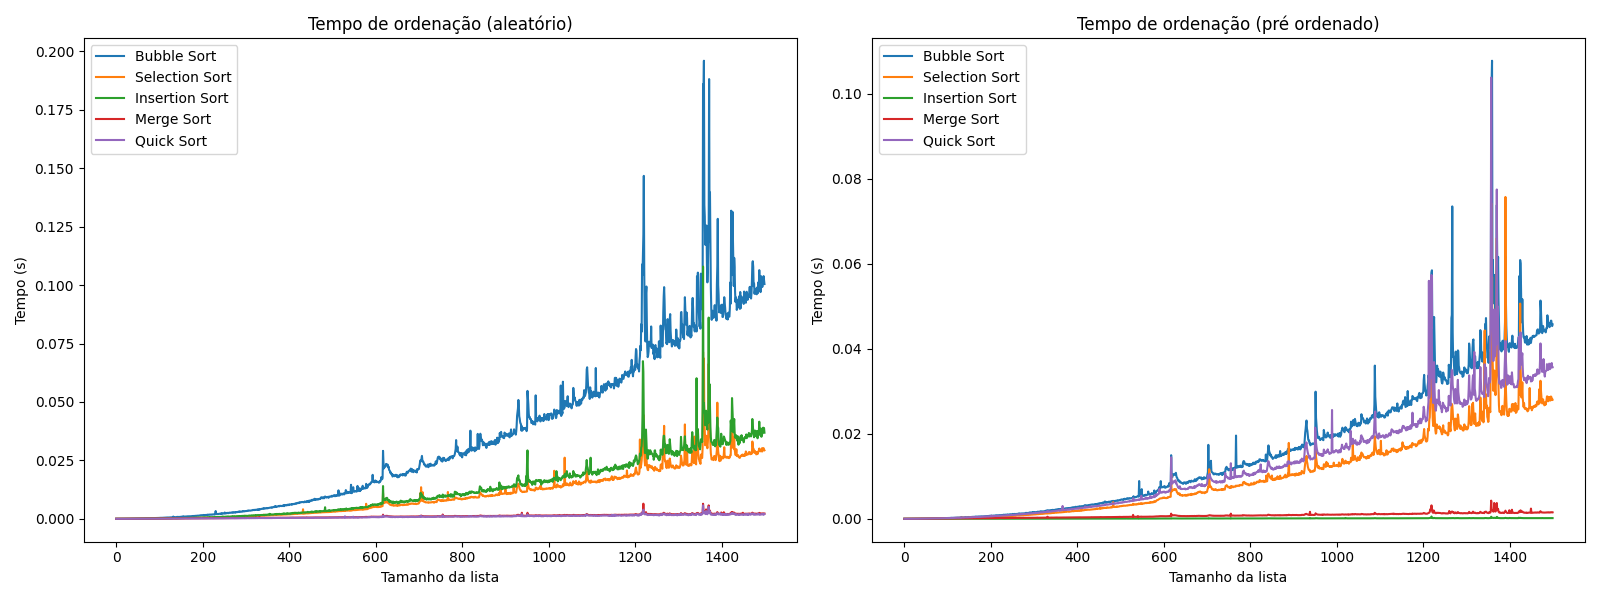
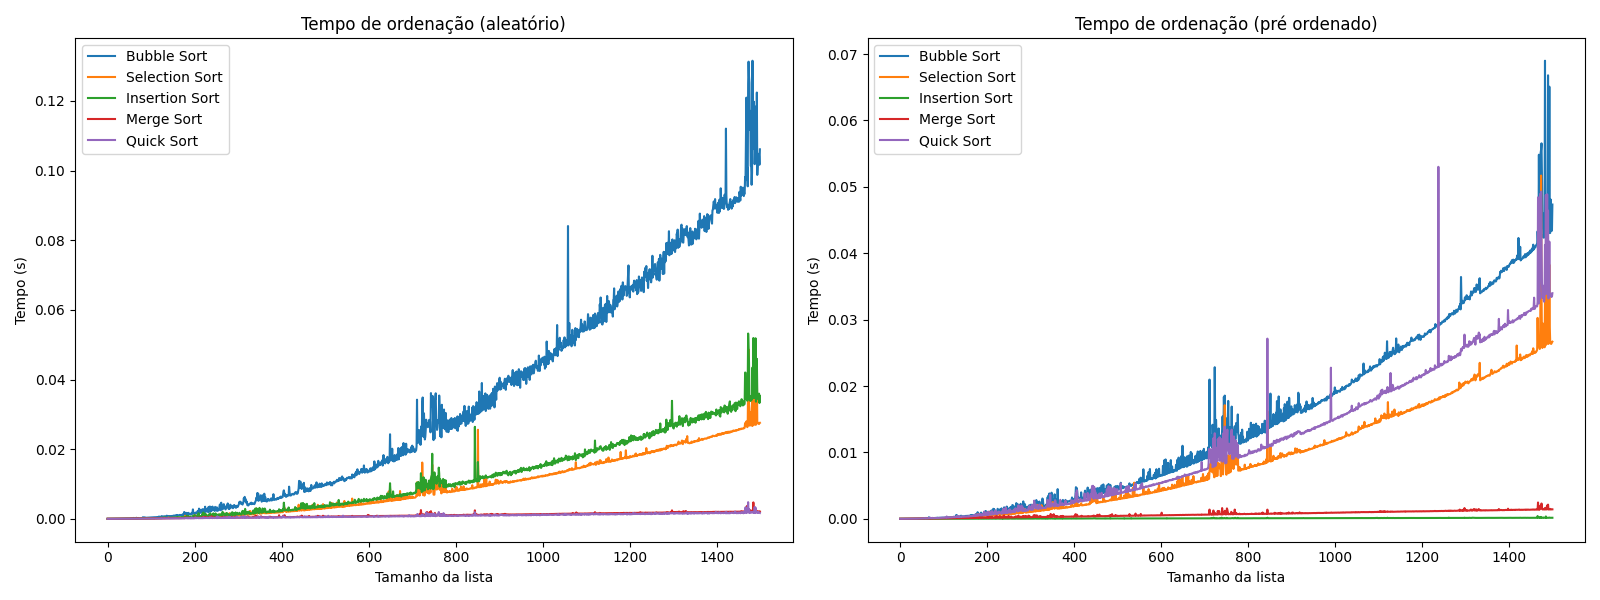
Arquivos

diff --git a/11-09/merge.py b/11-09/merge.py
@@ -1,0 +1,43 @@
+import random
+
+
+def merge(l1, l2):
+    """
+        Dados l1 e l2 ordenados, junta em uma com os dois, também ordenada
+    """
+
+    resultado = []
+    i = 0
+    j = 0
+
+    while i < len(l1) and j < len(l2):
+        if l1[i] < l2[j]:
+            resultado.append(l1[i])
+            i += 1
+        else:
+            resultado.append(l2[j])
+            j += 1
+
+    resultado += l1[i:]
+    resultado += l2[j:]
+
+    return resultado
+
+
+def merge_sort(l, inicio, fim):
+    if fim - inicio <= 1:
+        return
+
+    metade = (inicio + fim) // 2
+
+    merge_sort(l, inicio, metade)
+    merge_sort(l, metade, fim)
+
+    l1 = l[inicio:metade]
+    l2 = l[metade:fim]
+    l[inicio:fim] = merge(l1, l2)
+
+
+l = random.sample(range(10), 8)
+merge_sort(l, 0, 8)
+print(l)

diff --git a/11-09/quicksort.py b/11-09/quicksort.py
@@ -1,0 +1,33 @@
+import random
+
+
+def trocar_elementos(l, i, j):
+    aux = l[i]
+    l[i] = l[j]
+    l[j] = aux
+
+
+def partition(lista, inicio, fim):
+    j = inicio
+
+    for i in range(inicio + 1, fim):
+        if lista[i] <= lista[inicio]:
+            j += 1
+            trocar_elementos(lista, i, j)
+    trocar_elementos(lista, inicio, j)
+    return j
+
+
+def quick_sort(lista, inicio, fim):
+    if fim - inicio <= 1:
+        return
+
+    pivo = partition(lista, inicio, fim)
+    quick_sort(lista, inicio, pivo)
+    quick_sort(lista, pivo + 1, fim)
+
+
+l = random.sample(range(10), 8)
+print(l)
+quick_sort(l, 0, 8)
+print(l)

diff --git a/11-11/bolsa.py b/11-11/bolsa.py
@@ -1,0 +1,19 @@
+import csv
+import json
+import matplotlib.pyplot as plt
+
+
+with open("arquivos/bolsa.json") as f:
+    configs = json.load(f)
+
+for arquivo in configs["arquivos"]:
+    with open(f"arquivos/{arquivo['arquivo']}") as f:
+        dados = list(csv.DictReader(f))
+
+        xs = [float(dado["x"]) for dado in dados]
+        ys = [float(dado["y"]) for dado in dados]
+
+        plt.plot(xs, ys, label=arquivo["nome"])
+
+plt.legend()
+plt.savefig("11-11/bolsa.png")

diff --git a/11-11/3d.py b/11-11/3d.py
@@ -1,0 +1,14 @@
+import csv
+import matplotlib.pyplot as plt
+
+with open("arquivos/elevacao.csv", "r") as f:
+    leitor = csv.DictReader(f)
+    dados = list(leitor)
+
+    xs = [float(dado["x"]) for dado in dados]
+    ys = [float(dado["y"]) for dado in dados]
+    zs = [float(dado["altura"]) for dado in dados]
+
+    fig, ax = plt.subplots(subplot_kw={"projection": "3d"})
+    ax.plot_trisurf(xs, ys, zs)
+    plt.savefig("11-11/elevacao.png")

diff --git a/11-11/scatterplot.py b/11-11/scatterplot.py
@@ -1,0 +1,12 @@
+import csv
+import matplotlib.pyplot as plt
+
+with open("arquivos/coordenadas.csv", "r") as f:
+    leitor = csv.DictReader(f)
+    dados = list(leitor)
+
+    xs = [float(dado["x"]) for dado in dados]
+    ys = [float(dado["y"]) for dado in dados]
+
+    plt.scatter(xs, ys)
+    plt.savefig("11-11/scatter.png")

diff --git a/11-11/lendo_csv.py b/11-11/lendo_csv.py
@@ -1,0 +1,9 @@
+import csv
+
+
+with open("11-11/exemplo.csv") as f:
+    leitor = csv.reader(f)
+    dados = list(leitor)
+
+    for linha in dados:
+        print(linha)

diff --git a/11-11/lendo_json.py b/11-11/lendo_json.py
@@ -1,0 +1,6 @@
+import json
+
+
+with open("arquivos/exemplo.json") as f:
+    dados = json.load(f)
+    print(dados)

diff --git a/11-11/escrita.py b/11-11/escrita.py
@@ -1,0 +1,2 @@
+with open("11-11/novo_texto.txt", "w") as f:
+    f.write("Oi eu sou um novo texto >:(")

diff --git a/11-11/leitura.py b/11-11/leitura.py
@@ -1,0 +1,3 @@
+f = open("11-11/texto.txt") # File
+print(f.read())
+f.close()

diff --git a/11-11/with.py b/11-11/with.py
@@ -1,0 +1,2 @@
+with open("11-11/texto.txt") as f:
+    print(f.read())

diff --git a/11-11/import.py b/11-11/import.py
@@ -1,0 +1,3 @@
+from math import sqrt
+
+print(sqrt(4))
